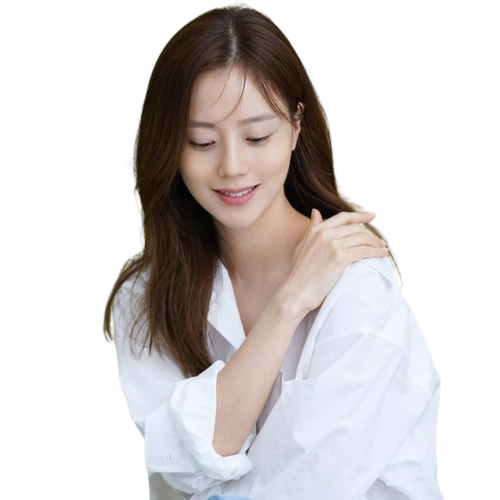
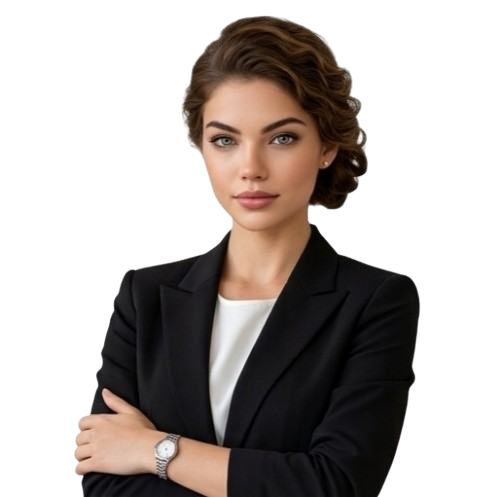
newww update

diff --git a/index.html b/index.html
@@ -17,7 +17,7 @@
         <!-- HEADER  -->
         <header class="header" id="header">
             <nav class="nav container">
-                <a href="#" class="nav_logo">MCW</a>
+                <a href="#" class="nav_logo">inzm</a>
                 <div class="nav_menu" id="nav-menu">
                     <ul class="nav_list grid">
                       <li class="nav_item">
@@ -102,11 +102,11 @@
                         </div>
 
                         <div class="home_data">
-                            <h1 class="home_title">Hi, I'm Chaewon.</h1>
-                            <h3 class="home_subtitle">and I'm a Frontend Developer</h3>
+                            <h1 class="home_title">Hi, I'm Alice.</h1>
+                            <h3 class="home_subtitle">and I'm a Project Manager</h3>
                             <p class="home_description">Lorem ipsum dolor sit amet consectetur adipisicing elit. Fugiat, beatae.</p>
                             <a href="#" class="button button--flex">
-                                contact me<i class='bx bx-send button_icon'></i></i>
+                                contact me<i class='bx bx-send button_icon'></i>
                             </a>
                         </div>
                     </div>
@@ -169,8 +169,8 @@
                                 <i class='bx bx-code-curly skills_icon'></i>
 
                                 <div>
-                                    <h1 class="skills_title">Frontend Developer</h1>
-                                    <span class="skills_subtitle">1 years</span>
+                                    <h1 class="skills_title">Project Leadership</h1>
+                                    <span class="skills_subtitle">3 years</span>
                                 </div>
 
                                 <i class='bx bx-chevron-down skills_arrow'></i>
@@ -225,8 +225,8 @@
                                 <i class='bx bx-code skills_icon'></i>
 
                                 <div>
-                                    <h1 class="skills_title">Programing</h1>
-                                    <span class="skills_subtitle">1 years</span>
+                                    <h1 class="skills_title">Methodologies</h1>
+                                    <span class="skills_subtitle">3 years</span>
                                 </div>
 
                                 <i class='bx bx-chevron-down skills_arrow'></i>
@@ -283,8 +283,8 @@
                                 <i class='bx bxs-color skills_icon'></i>
 
                                 <div>
-                                    <h1 class="skills_title">Designer</h1>
-                                    <span class="skills_subtitle">1 years</span>
+                                    <h1 class="skills_title">Tools & Platforms</h1>
+                                    <span class="skills_subtitle">3 years</span>
                                 </div>
 
                                 <i class='bx bx-chevron-down skills_arrow'></i>
@@ -340,8 +340,8 @@
                                 <i class='bx bx-code-block skills_icon'></i>
 
                                 <div>
-                                    <h1 class="skills_title">Others</h1>
-                                    <span class="skills_subtitle">1 years</span>
+                                    <h1 class="skills_title">Strategic Skills</h1>
+                                    <span class="skills_subtitle">3 years</span>
                                 </div>
 
                                 <i class='bx bx-chevron-down skills_arrow'></i>
@@ -522,7 +522,7 @@
                     <div class="services_content">
                         <div>
                             <i class='bx bx-layout services_icon'></i>
-                            <h3 class="services_title"> ui/ux <br> designer</h3>
+                            <h3 class="services_title"> Project <br> Management </h3>
                         </div>
 
                         <span class="button button--flex button--small button--link services_button">
@@ -532,25 +532,25 @@
 
                         <div class="services_modal">
                             <div class="services_modal-content">
-                                <h4 class="services_modal-title">Ui/ux <br> Designer </h4>
+                                <h4 class="services_modal-title"> Project <br> Management </h4>
                                 <i class='bx bx-x services_modal-close'></i>
 
-                                <ul class="services_modal-services grid">
+                               <ul class="services_modal-services grid">
                                     <li class="services_modal-service">
-                                        <i class='bx bx-check-circle services_modal-icon' ></i>
-                                        <p>I develop the user interface.</p>
+                                        <i class='bx bx-check-circle services_modal-icon'></i>
+                                        <p>Plan and manage end-to-end project lifecycles.</p>
                                     </li>
                                     <li class="services_modal-service">
-                                        <i class='bx bx-check-circle services_modal-icon' ></i>
-                                        <p>I develop the user interface.</p>
+                                        <i class='bx bx-check-circle services_modal-icon'></i>
+                                        <p>Coordinate Agile/Scrum sprints and team workflows.</p>
                                     </li>
                                     <li class="services_modal-service">
-                                        <i class='bx bx-check-circle services_modal-icon' ></i>
-                                        <p>I develop the user interface.</p>
+                                        <i class='bx bx-check-circle services_modal-icon'></i>
+                                        <p>Bridge communication between stakeholders and developers.</p>
                                     </li>
                                     <li class="services_modal-service">
-                                        <i class='bx bx-check-circle services_modal-icon' ></i>
-                                        <p>I develop the user interface.</p>
+                                        <i class='bx bx-check-circle services_modal-icon'></i>
+                                        <p>Track milestones, deliverables, and mitigate risks.</p>
                                     </li>
                                 </ul>
                             </div>
@@ -561,7 +561,7 @@
                     <div class="services_content">
                         <div>
                             <i class='bx bx-code-alt services_icon'></i>
-                            <h3 class="services_title"> ui/ux <br> designer</h3>
+                            <h3 class="services_title"> Agile & <br> Scrum Consulting </h3>
                         </div>
 
                         <span class="button button--flex button--small button--link services_button">
@@ -571,25 +571,25 @@
 
                         <div class="services_modal">
                             <div class="services_modal-content">
-                                <h4 class="services_modal-title">Ui/ux <br> Designer </h4>
+                                <h4 class="services_modal-title"> Agile & <br> Scrum Consulting </h4>
                                 <i class='bx bx-x services_modal-close'></i>
 
                                 <ul class="services_modal-services grid">
                                     <li class="services_modal-service">
-                                        <i class='bx bx-check-circle services_modal-icon' ></i>
-                                        <p>I develop the user interface.</p>
+                                        <i class='bx bx-check-circle services_modal-icon'></i>
+                                        <p>Facilitate Sprint Planning, Daily Standups, and Retrospectives.</p>
                                     </li>
                                     <li class="services_modal-service">
-                                        <i class='bx bx-check-circle services_modal-icon' ></i>
-                                        <p>I develop the user interface.</p>
+                                        <i class='bx bx-check-circle services_modal-icon'></i>
+                                        <p>Maintain and prioritize project backlogs in Jira/Trello.</p>
                                     </li>
                                     <li class="services_modal-service">
-                                        <i class='bx bx-check-circle services_modal-icon' ></i>
-                                        <p>I develop the user interface.</p>
+                                        <i class='bx bx-check-circle services_modal-icon'></i>
+                                        <p>Remove blockers and improve team sprint velocity.</p>
                                     </li>
                                     <li class="services_modal-service">
-                                        <i class='bx bx-check-circle services_modal-icon' ></i>
-                                        <p>I develop the user interface.</p>
+                                        <i class='bx bx-check-circle services_modal-icon'></i>
+                                        <p>Promote Agile best practices across cross-functional teams.</p>
                                     </li>
                                 </ul>
                             </div>
@@ -600,7 +600,7 @@
                     <div class="services_content">
                         <div>
                             <i class='bx bx-pencil services_icon'></i>
-                            <h3 class="services_title"> ui/ux <br> designer</h3>
+                            <h3 class="services_title"> Technical <br> Coordination</h3>
                         </div>
 
                         <span class="button button--flex button--small button--link services_button">
@@ -610,27 +610,28 @@
 
                         <div class="services_modal">
                             <div class="services_modal-content">
-                                <h4 class="services_modal-title">Ui/ux <br> Designer </h4>
+                                <h4 class="services_modal-title"> Technical <br> Coordination</h4>
                                 <i class='bx bx-x services_modal-close'></i>
 
                                 <ul class="services_modal-services grid">
-                                    <li class="services_modal-service">
-                                        <i class='bx bx-check-circle services_modal-icon' ></i>
-                                        <p>I develop the user interface.</p>
-                                    </li>
-                                    <li class="services_modal-service">
-                                        <i class='bx bx-check-circle services_modal-icon' ></i>
-                                        <p>I develop the user interface.</p>
-                                    </li>
-                                    <li class="services_modal-service">
-                                        <i class='bx bx-check-circle services_modal-icon' ></i>
-                                        <p>I develop the user interface.</p>
-                                    </li>
-                                    <li class="services_modal-service">
-                                        <i class='bx bx-check-circle services_modal-icon' ></i>
-                                        <p>I develop the user interface.</p>
-                                    </li>
-                                </ul>
+                                    <ul class="services_modal-services grid">
+                                        <li class="services_modal-service">
+                                            <i class='bx bx-check-circle services_modal-icon'></i>
+                                            <p>Translate business requirements into technical specifications.</p>
+                                        </li>
+                                        <li class="services_modal-service">
+                                            <i class='bx bx-check-circle services_modal-icon'></i>
+                                            <p>Align developers and designers on software architecture goals.</p>
+                                        </li>
+                                        <li class="services_modal-service">
+                                            <i class='bx bx-check-circle services_modal-icon'></i>
+                                            <p>Ensure quality assurance (QA) standards and code readiness.</p>
+                                        </li>
+                                        <li class="services_modal-service">
+                                            <i class='bx bx-check-circle services_modal-icon'></i>
+                                            <p>Manage technical documentation and system deployment milestones.</p>
+                                        </li>
+                                    </ul>
                             </div>
                         </div> 
                     </div>

diff --git a/assets/css/styles.css b/assets/css/styles.css
@@ -31,8 +31,8 @@
     --small-font-size: .813rem;
     --smaller-font-size: .75rem;
 
-     /*========== Font and typography ==========*/
-     --body-font: 'Poppins', sans-serif;
+    /*========== Font and typography ==========*/
+    --body-font: 'Poppins', sans-serif;
     --font-medium: 500;
     --font-semi-bold: 600;
 
